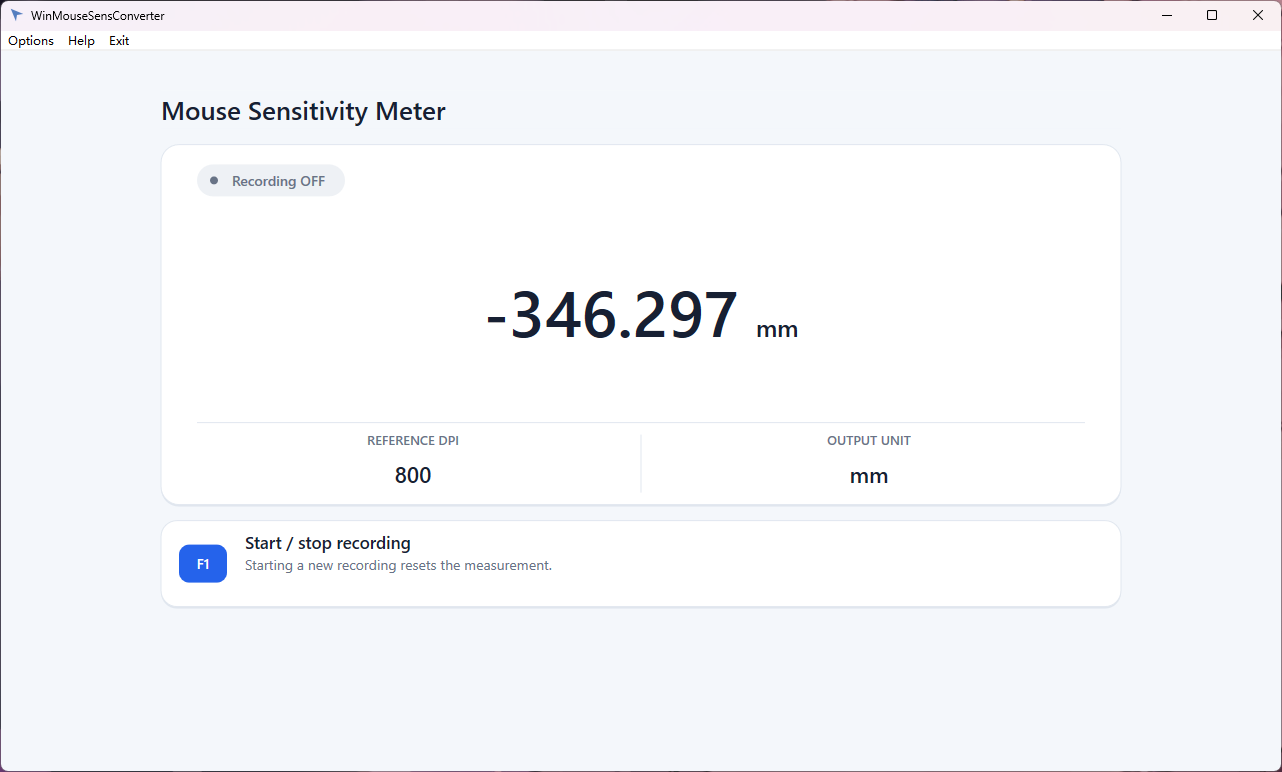
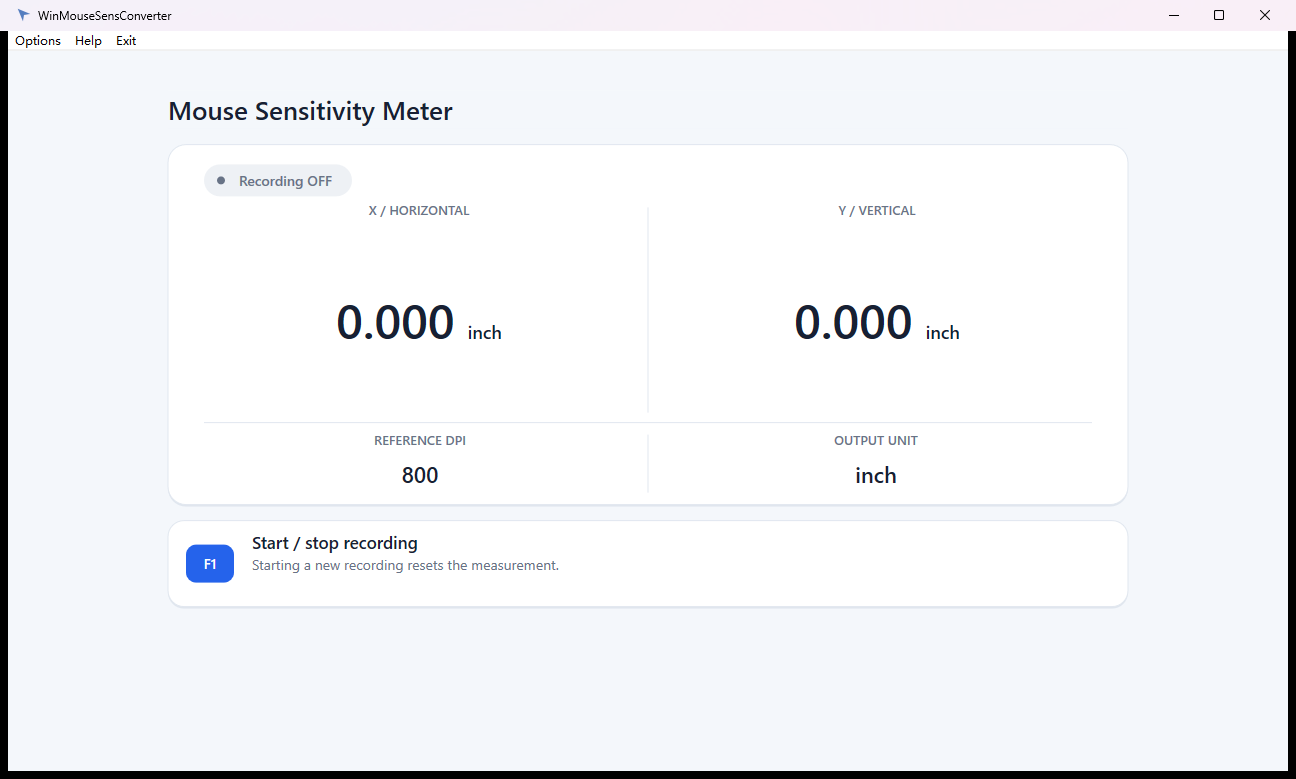
feat: vertical mov display

diff --git a/WinMouseSensConverter/ui.cpp b/WinMouseSensConverter/ui.cpp
@@ -76,6 +76,15 @@ namespace {
         const wchar_t* label;
     };
 
+    struct ValueLayoutCache {
+        ComPtr<IDWriteTextLayout> layout;
+        double raw_count = std::numeric_limits<double>::quiet_NaN();
+        int reference_dpi = 0;
+        Unit unit = Unit::raw;
+        float width = 0.0f;
+        float height = 0.0f;
+    };
+
     constexpr std::array<DpiMenuEntry, 7> kDpiMenuEntries{{
         {kCommandDpi100, 100, L"100"},
         {kCommandDpi400, 400, L"400"},
@@ -136,12 +145,7 @@ namespace {
         ComPtr<ID2D1SolidColorBrush> status_fill_brush;
         ComPtr<ID2D1SolidColorBrush> status_text_brush;
 
-        ComPtr<IDWriteTextLayout> value_layout;
-        double cached_raw_dx = std::numeric_limits<double>::quiet_NaN();
-        int cached_reference_dpi = 0;
-        Unit cached_unit = Unit::raw;
-        float cached_value_width = 0.0f;
-        float cached_value_height = 0.0f;
+        std::array<ValueLayoutCache, 2> value_layouts;
 
         ~UiState() {
             if (root_menu != nullptr) {
@@ -258,7 +262,7 @@ namespace {
         if (FAILED(result)) return result;
         result = create_text_format(state.write_factory.Get(), 14.0f, DWRITE_FONT_WEIGHT_SEMI_BOLD, DWRITE_TEXT_ALIGNMENT_CENTER, DWRITE_PARAGRAPH_ALIGNMENT_CENTER, state.status_format.GetAddressOf());
         if (FAILED(result)) return result;
-        result = create_text_format(state.write_factory.Get(), 64.0f, DWRITE_FONT_WEIGHT_SEMI_BOLD, DWRITE_TEXT_ALIGNMENT_CENTER, DWRITE_PARAGRAPH_ALIGNMENT_CENTER, state.value_format.GetAddressOf());
+        result = create_text_format(state.write_factory.Get(), 48.0f, DWRITE_FONT_WEIGHT_SEMI_BOLD, DWRITE_TEXT_ALIGNMENT_CENTER, DWRITE_PARAGRAPH_ALIGNMENT_CENTER, state.value_format.GetAddressOf());
         if (FAILED(result)) return result;
         result = create_text_format(state.write_factory.Get(), 13.0f, DWRITE_FONT_WEIGHT_SEMI_BOLD, DWRITE_TEXT_ALIGNMENT_CENTER, DWRITE_PARAGRAPH_ALIGNMENT_CENTER, state.label_format.GetAddressOf());
         if (FAILED(result)) return result;
@@ -454,13 +458,12 @@ namespace {
         state.render_target->DrawRoundedRectangle(card, state.border_brush.Get(), 1.0f);
     }
 
-    HRESULT update_value_layout(UiState& state, float width, float height) noexcept {
-        const double raw_dx = public_data::accumulated_muzmov_dx;
-        if (state.value_layout != nullptr && state.cached_raw_dx == raw_dx && state.cached_reference_dpi == state.reference_dpi && state.cached_unit == state.unit && state.cached_value_width == width && state.cached_value_height == height) {
+    HRESULT update_value_layout(UiState& state, ValueLayoutCache& cache, double raw_count, float width, float height) noexcept {
+        if (cache.layout != nullptr && cache.raw_count == raw_count && cache.reference_dpi == state.reference_dpi && cache.unit == state.unit && cache.width == width && cache.height == height) {
             return S_OK;
         }
 
-        const double value = normalize_display_value(convert_distance(raw_dx, state.reference_dpi, state.unit));
+        const double value = normalize_display_value(convert_distance(raw_count, state.reference_dpi, state.unit));
 
         wchar_t text[128]{};
         const int written = swprintf_s(text, L"%.3f %ls", value, unit_name(state.unit));
@@ -477,20 +480,48 @@ namespace {
         );
         if (FAILED(result)) return result;
 
+        constexpr float default_value_font_size = 48.0f;
+        constexpr float default_unit_font_size = 18.0f;
+        constexpr float minimum_value_font_size = 20.0f;
+        constexpr float minimum_unit_font_size = 9.0f;
+
         const wchar_t* separator = std::wcschr(text, L' ');
-        if (separator != nullptr) {
-            const UINT32 unit_start = static_cast<UINT32>((separator - text) + 1);
-            const DWRITE_TEXT_RANGE unit_range{unit_start, static_cast<UINT32>(written) - unit_start};
-            layout->SetFontSize(24.0f, unit_range);
-            layout->SetFontWeight(DWRITE_FONT_WEIGHT_SEMI_BOLD, unit_range);
+        if (separator == nullptr) return E_FAIL;
+
+        const UINT32 separator_index = static_cast<UINT32>(separator - text);
+        const UINT32 unit_start = separator_index + 1;
+        const DWRITE_TEXT_RANGE value_range{0, separator_index};
+        const DWRITE_TEXT_RANGE unit_range{unit_start, static_cast<UINT32>(written) - unit_start};
+        result = layout->SetFontSize(default_value_font_size, value_range);
+        if (FAILED(result)) return result;
+        result = layout->SetFontSize(default_unit_font_size, unit_range);
+        if (FAILED(result)) return result;
+        result = layout->SetFontWeight(DWRITE_FONT_WEIGHT_SEMI_BOLD, unit_range);
+        if (FAILED(result)) return result;
+
+        DWRITE_TEXT_METRICS metrics{};
+        result = layout->GetMetrics(&metrics);
+        if (FAILED(result)) return result;
+
+        const float usable_width = std::max(1.0f, width - 4.0f);
+        const float usable_height = std::max(1.0f, height - 2.0f);
+        const float width_scale = metrics.widthIncludingTrailingWhitespace > usable_width ? usable_width / metrics.widthIncludingTrailingWhitespace : 1.0f;
+        const float height_scale = metrics.height > usable_height ? usable_height / metrics.height : 1.0f;
+        const float scale = std::min(width_scale, height_scale);
+        if (scale < 1.0f) {
+            constexpr float fit_safety_factor = 0.9f;
+            result = layout->SetFontSize(std::max(minimum_value_font_size, default_value_font_size * scale * fit_safety_factor), value_range);
+            if (FAILED(result)) return result;
+            result = layout->SetFontSize(std::max(minimum_unit_font_size, default_unit_font_size * scale * fit_safety_factor), unit_range);
+            if (FAILED(result)) return result;
         }
 
-        state.value_layout = std::move(layout);
-        state.cached_raw_dx = raw_dx;
-        state.cached_reference_dpi = state.reference_dpi;
-        state.cached_unit = state.unit;
-        state.cached_value_width = width;
-        state.cached_value_height = height;
+        cache.layout = std::move(layout);
+        cache.raw_count = raw_count;
+        cache.reference_dpi = state.reference_dpi;
+        cache.unit = state.unit;
+        cache.width = width;
+        cache.height = height;
         return S_OK;
     }
 
@@ -538,12 +569,34 @@ namespace {
         const float settings_top = main_card.bottom - settings_height;
         state.render_target->DrawLine(D2D1::Point2F(main_card.left + inner_padding, settings_top), D2D1::Point2F(main_card.right - inner_padding, settings_top), state.border_brush.Get(), 1.0f);
 
-        const D2D1_RECT_F value_bounds = D2D1::RectF(main_card.left + inner_padding, status_bounds.bottom + 3.0f, main_card.right - inner_padding, settings_top - 2.0f);
-        if (SUCCEEDED(update_value_layout(state, value_bounds.right - value_bounds.left, value_bounds.bottom - value_bounds.top))) {
-            state.render_target->DrawTextLayout(D2D1::Point2F(value_bounds.left, value_bounds.top), state.value_layout.Get(), state.primary_text_brush.Get(), D2D1_DRAW_TEXT_OPTIONS_CLIP);
+        const float center_x = (main_card.left + main_card.right) * 0.5f;
+        const D2D1_RECT_F measurement_bounds = D2D1::RectF(main_card.left + inner_padding, status_bounds.bottom + 3.0f, main_card.right - inner_padding, settings_top - 2.0f);
+        const float measurement_divider_top = measurement_bounds.top + 8.0f;
+        const float measurement_divider_bottom = measurement_bounds.bottom - 8.0f;
+        if (measurement_divider_bottom > measurement_divider_top) {
+            state.render_target->DrawLine(D2D1::Point2F(center_x, measurement_divider_top), D2D1::Point2F(center_x, measurement_divider_bottom), state.border_brush.Get(), 1.0f);
         }
 
-        const float center_x = (main_card.left + main_card.right) * 0.5f;
+        constexpr float axis_gap = 14.0f;
+        const std::array<D2D1_RECT_F, 2> axis_bounds{
+            D2D1::RectF(measurement_bounds.left, measurement_bounds.top, center_x - axis_gap, measurement_bounds.bottom),
+            D2D1::RectF(center_x + axis_gap, measurement_bounds.top, measurement_bounds.right, measurement_bounds.bottom),
+        };
+        constexpr std::array<const wchar_t*, 2> axis_labels{L"X / HORIZONTAL", L"Y / VERTICAL"};
+        const std::array<double, 2> raw_counts{public_data::accumulated_muzmov_dx, public_data::accumulated_muzmov_dy};
+
+        const float axis_label_top = measurement_bounds.top + 1.0f;
+        const float axis_label_bottom = std::min(measurement_bounds.bottom, axis_label_top + 18.0f);
+        for (size_t index = 0; index < axis_bounds.size(); ++index) {
+            const D2D1_RECT_F label_bounds = D2D1::RectF(axis_bounds[index].left, axis_label_top, axis_bounds[index].right, axis_label_bottom);
+            draw_text(state, axis_labels[index], state.label_format.Get(), label_bounds, state.secondary_text_brush.Get());
+
+            const D2D1_RECT_F axis_value_bounds = D2D1::RectF(axis_bounds[index].left, axis_label_bottom, axis_bounds[index].right, axis_bounds[index].bottom);
+            if (SUCCEEDED(update_value_layout(state, state.value_layouts[index], raw_counts[index], axis_value_bounds.right - axis_value_bounds.left, axis_value_bounds.bottom - axis_value_bounds.top))) {
+                state.render_target->DrawTextLayout(D2D1::Point2F(axis_value_bounds.left, axis_value_bounds.top), state.value_layouts[index].layout.Get(), state.primary_text_brush.Get(), D2D1_DRAW_TEXT_OPTIONS_CLIP);
+            }
+        }
+
         state.render_target->DrawLine(D2D1::Point2F(center_x, settings_top + 12.0f), D2D1::Point2F(center_x, main_card.bottom - 12.0f), state.border_brush.Get(), 1.0f);
 
         const D2D1_RECT_F dpi_label_bounds = D2D1::RectF(main_card.left + inner_padding, settings_top + 7.0f, center_x - 12.0f, settings_top + 27.0f);
